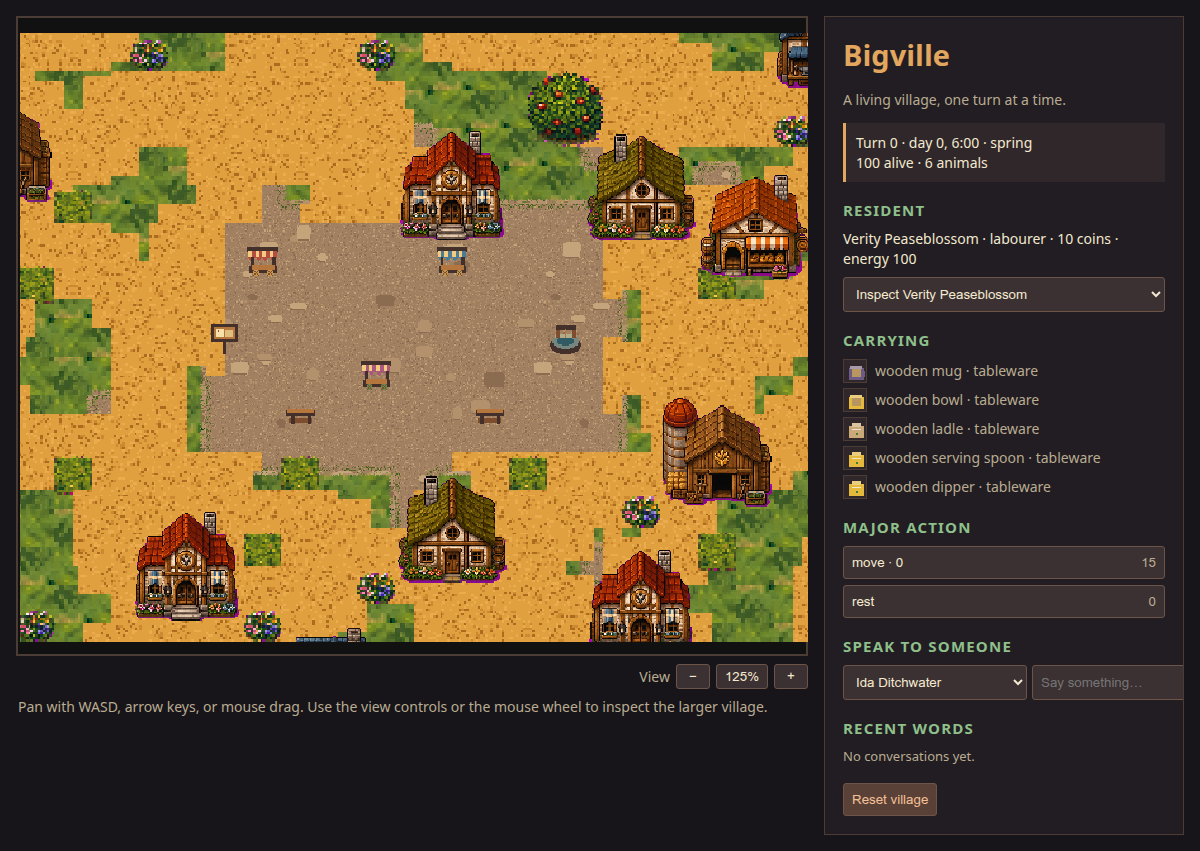
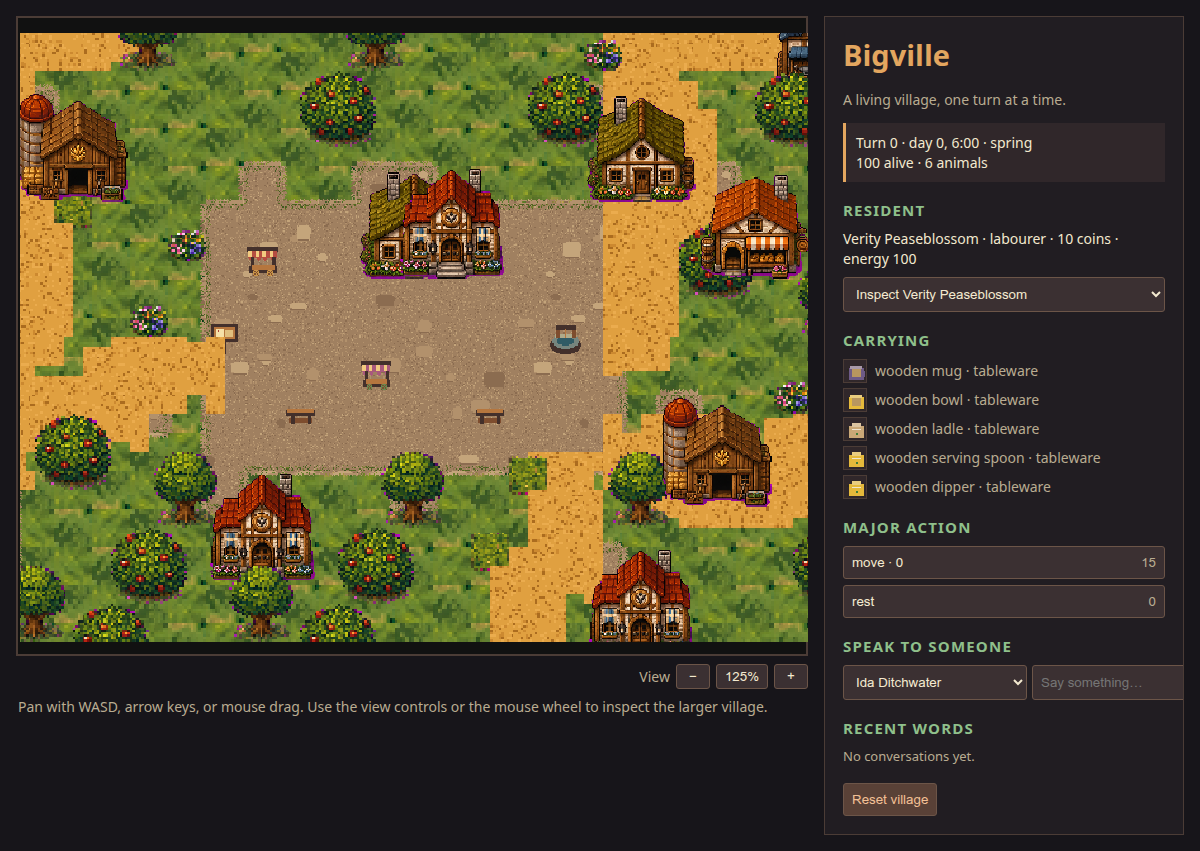
Reduce Bigville trail coverage

Changed region(s): [[0.0, 0.0306, 0.6783, 0.7638]]

diff --git a/worlds/bigville_town100_world.py b/worlds/bigville_town100_world.py
@@ -333,12 +333,11 @@ def build_town_100(seed=SEED_DEFAULT):
     grid = [[GRASS for _ in range(W)] for _ in range(H)]
 
     # --- connected winding road network ---------------------------------------
-    # The routes retain the same broad coverage as the old lattice, but each
-    # run drifts by a few cells and is linked at near-intersections. This keeps
-    # navigation and road-adjacent plot selection intact without presenting a
-    # town made from perfectly straight graph-paper lines.
-    hrows = [6, 10, 14, 18, 22, 26, 30, 34]
-    vcols = [5, 11, 17, 23, 29, 35, 41, 47]
+    # Keep the roads as a small set of useful village routes rather than a
+    # near-grid of surfaced cells. Each run drifts by a few cells and is linked
+    # at near-intersections, leaving the surrounding plots and commons legible.
+    hrows = [9, 20, 31]
+    vcols = [11, 28, 45]
     horizontal_routes = [
         _windy_horizontal(grid, y, index % 5) for index, y in enumerate(hrows)
     ]

diff --git a/tests/test_bigville_world_migrated.py b/tests/test_bigville_world_migrated.py
@@ -1208,6 +1208,10 @@ def test_winding_paths_are_orthogonally_continuous_through_corners():
                 seen.add(neighbour)
                 frontier.append(neighbour)
     assert seen == path_cells
+    # Routes should support the village without becoming its dominant visual
+    # surface; the square is intentionally counted separately from trails.
+    trail_cells = sum(row.count(1) for row in w._map_grid)
+    assert trail_cells < len(w._map_cells) * 0.30
 
 
 def test_building_projects_consume_physical_materials_and_mint_a_place():
